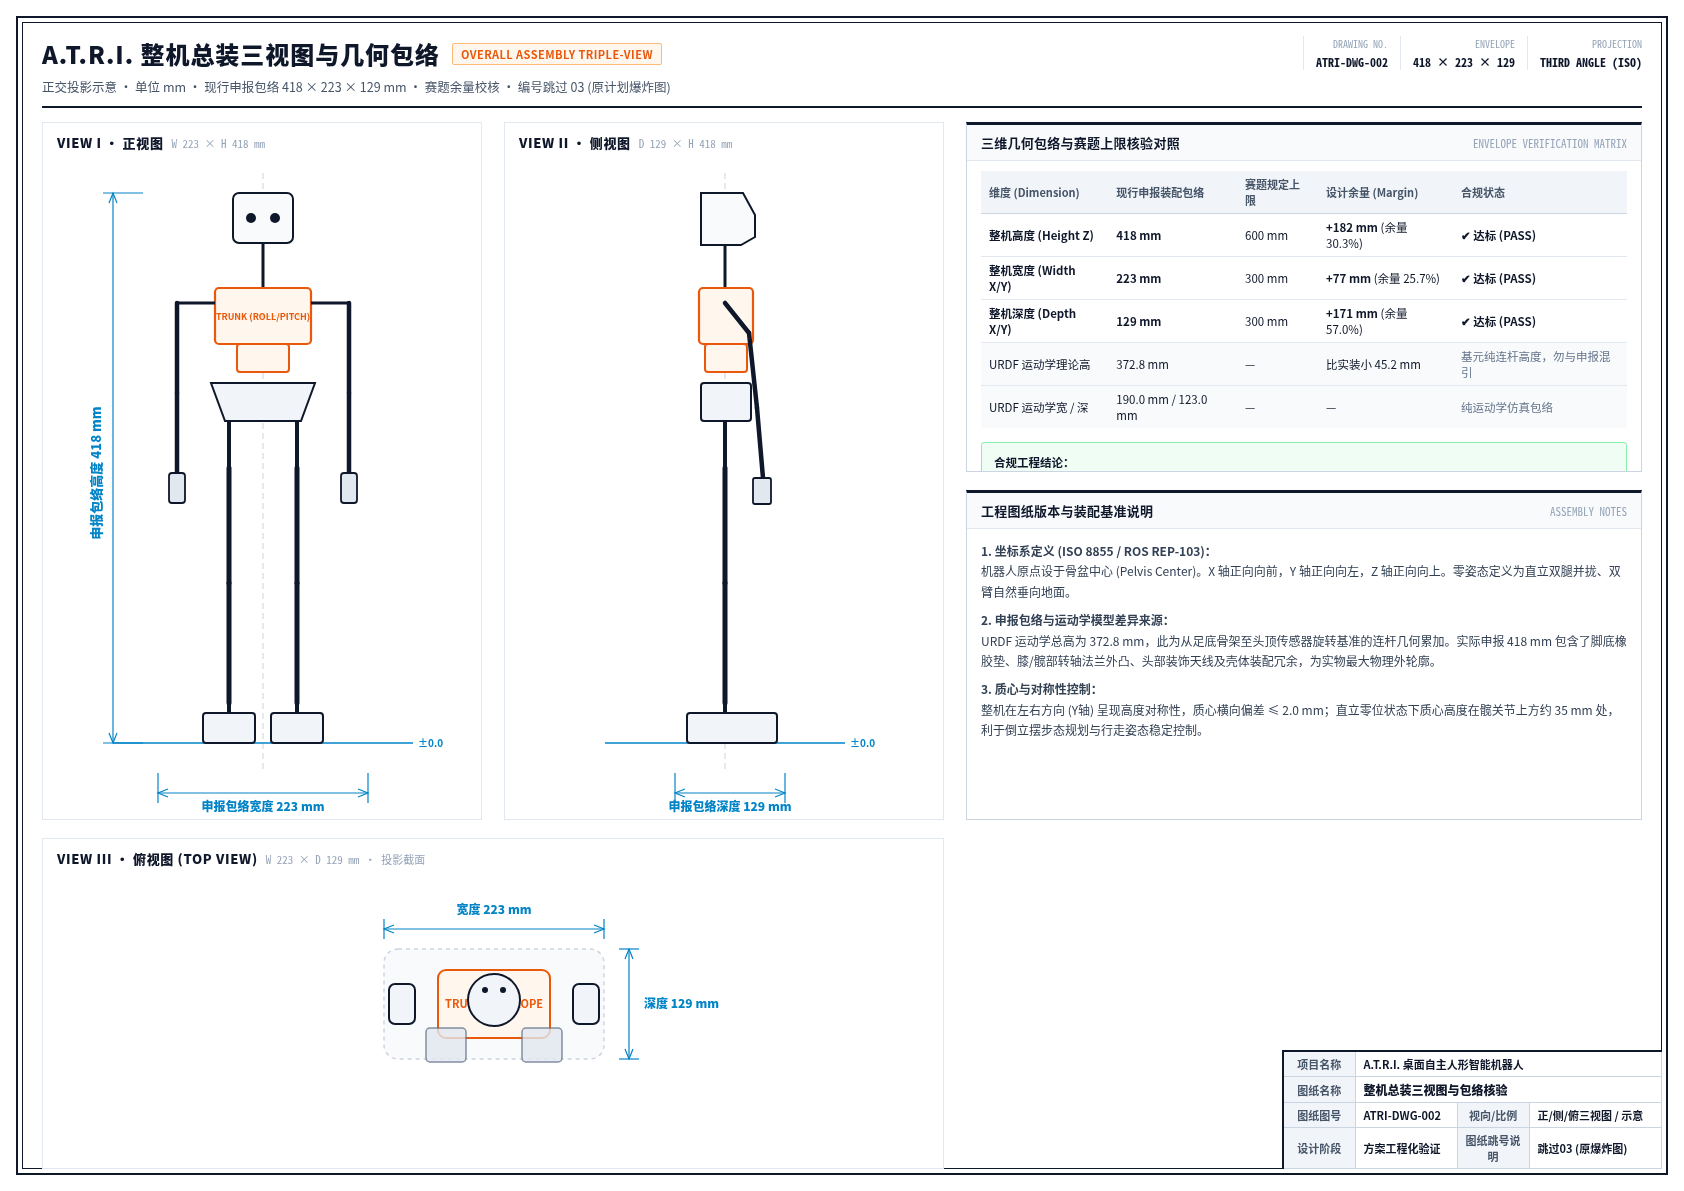
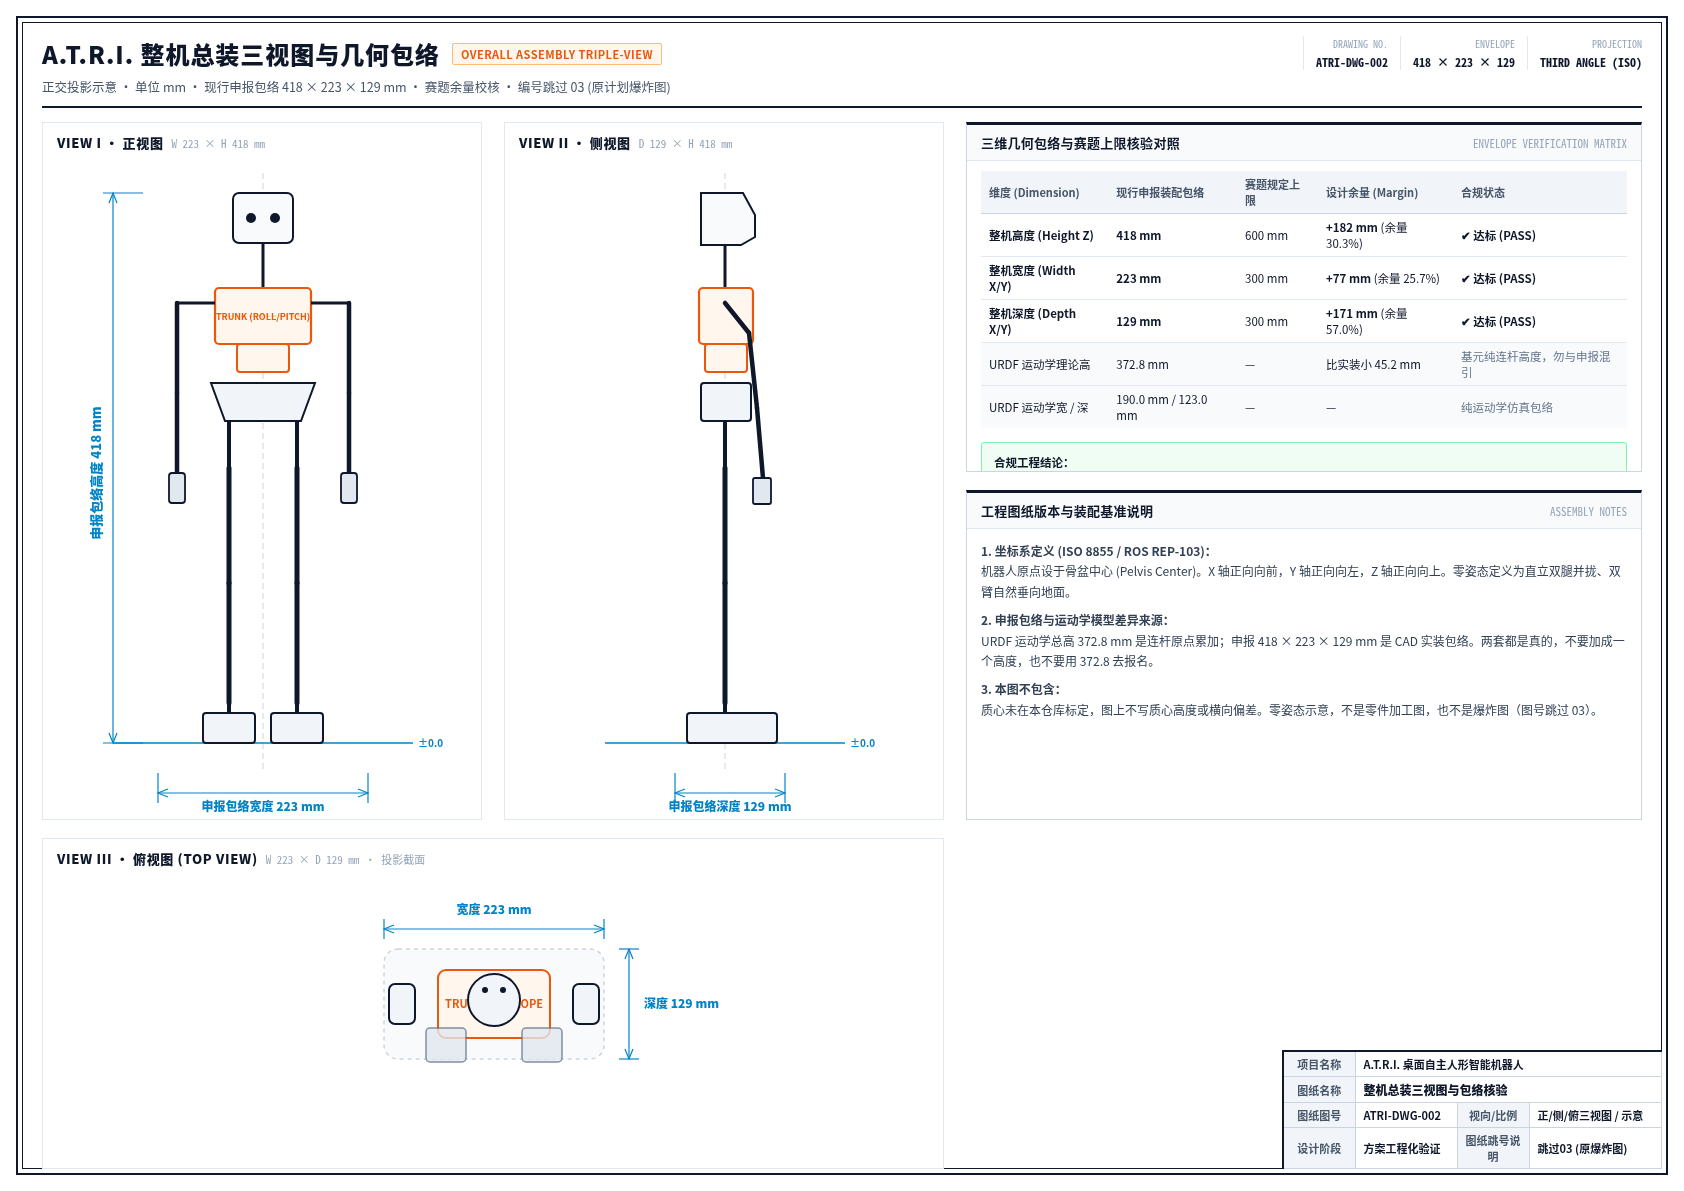
docs: 三视图去掉未标定的质心数字

Changed region(s): [[0.5867, 0.5281, 0.9572, 0.6213]]

diff --git a/design/drawings/preview.html b/design/drawings/preview.html
@@ -898,9 +898,9 @@
       <p style="margin: 0 0 8px 0;"><strong>1. 坐标系定义 (ISO 8855 / ROS REP-103)：</strong><br>
       机器人原点设于骨盆中心 (Pelvis Center)。X 轴正向向前，Y 轴正向向左，Z 轴正向向上。零姿态定义为直立双腿并拢、双臂自然垂向地面。</p>
       <p style="margin: 0 0 8px 0;"><strong>2. 申报包络与运动学模型差异来源：</strong><br>
-      URDF 运动学总高为 372.8 mm，此为从足底骨架至头顶传感器旋转基准的连杆几何累加。实际申报 418 mm 包含了脚底橡胶垫、膝/髋部转轴法兰外凸、头部装饰天线及壳体装配冗余，为实物最大物理外轮廓。</p>
-      <p style="margin: 0;"><strong>3. 质心与对称性控制：</strong><br>
-      整机在左右方向 (Y轴) 呈现高度对称性，质心横向偏差 ≤ 2.0 mm；直立零位状态下质心高度在髋关节上方约 35 mm 处，利于倒立摆步态规划与行走姿态稳定控制。</p>
+      URDF 运动学总高 372.8 mm 是连杆原点累加；申报 418 × 223 × 129 mm 是 CAD 实装包络。两套都是真的，不要加成一个高度，也不要用 372.8 去报名。</p>
+      <p style="margin: 0;"><strong>3. 本图不包含：</strong><br>
+      质心未在本仓库标定，图上不写质心高度或横向偏差。零姿态示意，不是零件加工图，也不是爆炸图（图号跳过 03）。</p>
     </div>
   </div>
 
